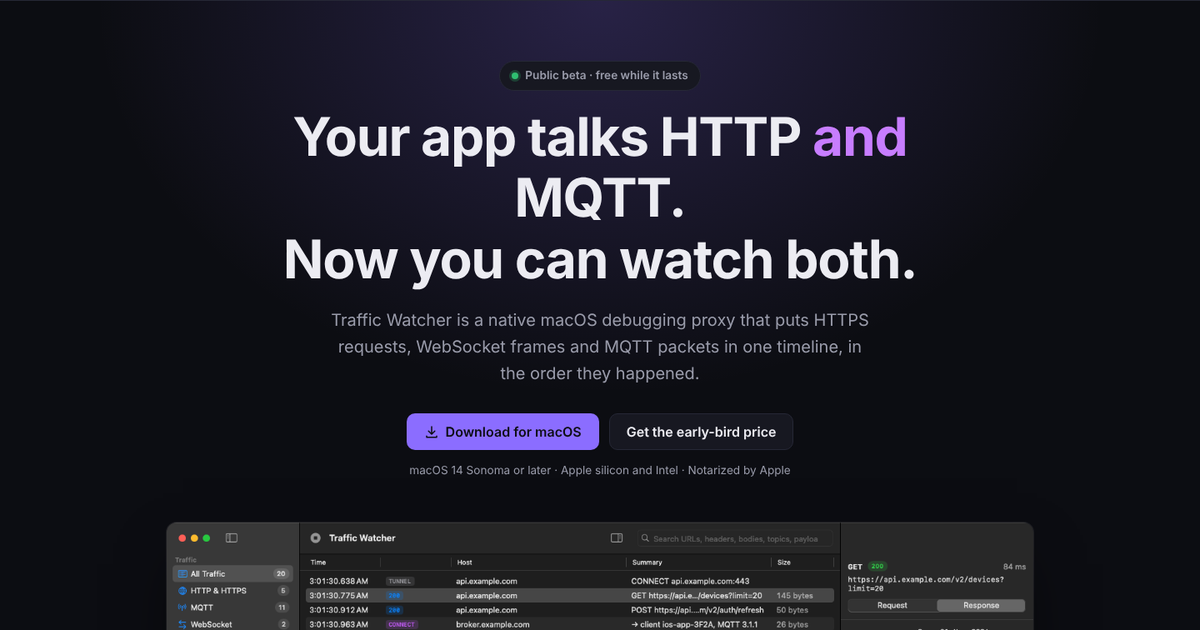
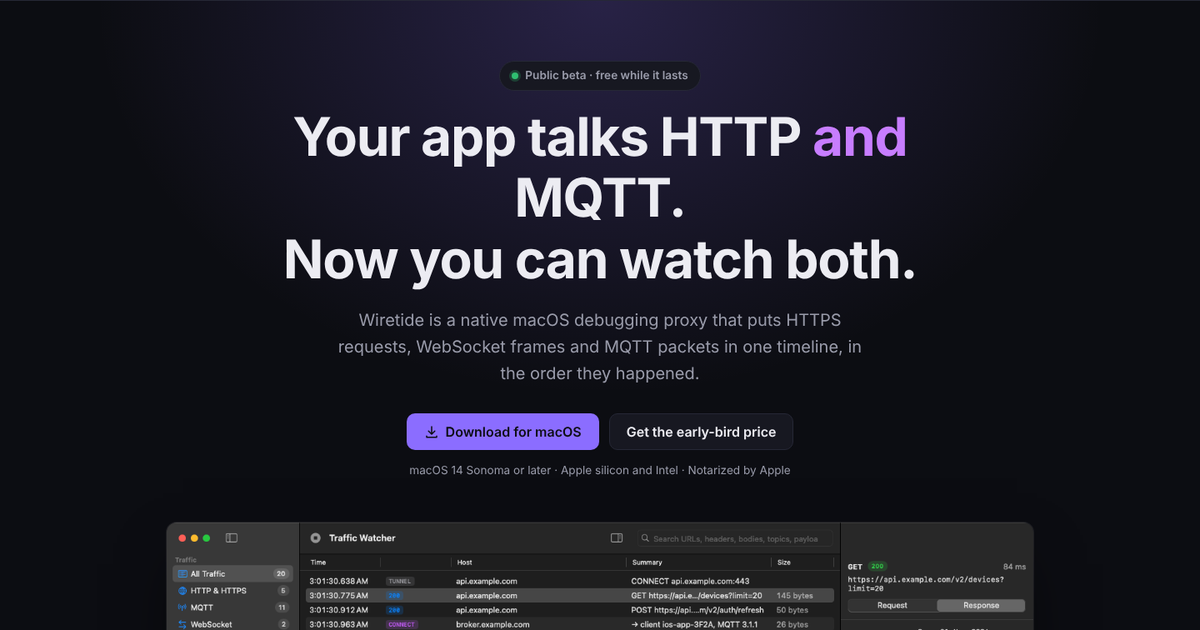
Use the public name Wiretide in the landing page copy
Claude-Session: https://claude.ai/code/session_01QrEV4TRZR3uc4sg86cQyEk

Changed region(s): [[0.2775, 0.4825, 0.74, 0.5429]]

diff --git a/site/index.html b/site/index.html
@@ -3,13 +3,13 @@
 <head>
   <meta charset="utf-8">
   <meta name="viewport" content="width=device-width, initial-scale=1">
-  <title>Traffic Watcher · HTTP, WebSocket and MQTT debugging for macOS</title>
+  <title>Wiretide · HTTP, WebSocket and MQTT debugging for macOS</title>
   <meta name="description" content="A native macOS debugging proxy that shows HTTP(S), WebSocket and MQTT traffic side by side in one timeline. Free during the beta.">
   <meta name="color-scheme" content="light dark">
   <meta name="theme-color" content="#0c0d12" media="(prefers-color-scheme: dark)">
   <meta name="theme-color" content="#f7f7fa" media="(prefers-color-scheme: light)">
   <meta property="og:type" content="website">
-  <meta property="og:title" content="Traffic Watcher">
+  <meta property="og:title" content="Wiretide">
   <meta property="og:description" content="HTTP, WebSocket and MQTT in one timeline. A native macOS debugging proxy for app developers.">
   <meta property="og:image" content="https://ryansalim-dev.github.io/traffic-watcher-with-mqtt/images/og.png">
   <meta name="twitter:card" content="summary_large_image">
@@ -21,9 +21,9 @@
 <body>
   <header class="nav">
     <div class="wrap nav-inner">
-      <a class="brand" href="#top" aria-label="Traffic Watcher home">
+      <a class="brand" href="#top" aria-label="Wiretide home">
         <img src="images/icon.svg" alt="" width="28" height="28">
-        <span>Traffic Watcher</span>
+        <span>Wiretide</span>
       </a>
       <nav class="nav-links" aria-label="Sections">
         <a href="#features">Features</a>
@@ -40,7 +40,7 @@
       <div class="wrap">
         <p class="pill"><span class="dot"></span>Public beta · free while it lasts</p>
         <h1>Your app talks HTTP <em>and</em> MQTT.<br>Now you can watch both.</h1>
-        <p class="lede">Traffic Watcher is a native macOS debugging proxy that puts HTTPS requests, WebSocket frames and MQTT packets in one timeline, in the order they happened.</p>
+        <p class="lede">Wiretide is a native macOS debugging proxy that puts HTTPS requests, WebSocket frames and MQTT packets in one timeline, in the order they happened.</p>
         <div class="cta-row">
           <a class="btn btn-primary" data-download href="#download">
             <svg aria-hidden="true" width="18" height="18" viewBox="0 0 24 24"><path fill="currentColor" d="M12 3a1 1 0 0 1 1 1v9.59l3.3-3.3a1 1 0 1 1 1.4 1.42l-5 5a1 1 0 0 1-1.4 0l-5-5a1 1 0 1 1 1.4-1.42l3.3 3.3V4a1 1 0 0 1 1-1Zm-8 15a1 1 0 0 1 1 1v1h14v-1a1 1 0 1 1 2 0v2a1 1 0 0 1-1 1H4a1 1 0 0 1-1-1v-2a1 1 0 0 1 1-1Z"/></svg>
@@ -54,7 +54,7 @@
           <picture>
             <source srcset="images/02-timeline-http-dark.webp" media="(prefers-color-scheme: dark)">
             <img src="images/01-timeline-http.webp" width="1440" height="860"
-                 alt="Traffic Watcher's timeline: HTTPS requests, MQTT CONNECT, SUBSCRIBE and PUBLISH packets and WebSocket text frames in one list, with a JSON response open in the inspector.">
+                 alt="Wiretide's timeline: HTTPS requests, MQTT CONNECT, SUBSCRIBE and PUBLISH packets and WebSocket text frames in one list, with a JSON response open in the inspector.">
           </picture>
         </figure>
 
@@ -95,7 +95,7 @@
           <article class="card">
             <div class="icon i-warn" aria-hidden="true"><svg viewBox="0 0 24 24"><path d="M12 2 3 6v6c0 5 3.8 9.3 9 10 5.2-.7 9-5 9-10V6l-9-4Zm0 2.18 7 3.11V12c0 3.9-2.9 7.3-7 8-4.1-.7-7-4.1-7-8V7.29l7-3.11ZM11 7h2v6h-2V7Zm0 8h2v2h-2v-2Z"/></svg></div>
             <h3>Spot pinned hosts</h3>
-            <p>When a client rejects the certificate, Traffic Watcher says so instead of failing silently. Bypass the host with one click.</p>
+            <p>When a client rejects the certificate, Wiretide says so instead of failing silently. Bypass the host with one click.</p>
           </article>
           <article class="card">
             <div class="icon i-export" aria-hidden="true"><svg viewBox="0 0 24 24"><path d="M12 3a1 1 0 0 1 .7.3l4 4a1 1 0 1 1-1.4 1.4L13 6.42V15a1 1 0 1 1-2 0V6.41L8.7 8.7a1 1 0 1 1-1.4-1.4l4-4A1 1 0 0 1 12 3ZM5 14a1 1 0 0 1 1 1v3h12v-3a1 1 0 1 1 2 0v4a1 1 0 0 1-1 1H5a1 1 0 0 1-1-1v-4a1 1 0 0 1 1-1Z"/></svg></div>
@@ -111,7 +111,7 @@
         <div class="split-copy">
           <p class="eyebrow eyebrow-mqtt">Built for MQTT</p>
           <h2>See your broker conversation, not a wall of bytes.</h2>
-          <p>Most proxies stop at HTTP. IoT and real-time apps don't. Point your app at a local port and Traffic Watcher relays it to your broker, decoding every packet on the way through.</p>
+          <p>Most proxies stop at HTTP. IoT and real-time apps don't. Point your app at a local port and Wiretide relays it to your broker, decoding every packet on the way through.</p>
           <ul class="checks">
             <li><strong>Plain TCP, TLS or WebSocket.</strong> For MQTT over TLS it terminates and re-encrypts, so you see the packets without changing the broker.</li>
             <li><strong>A live topic tree.</strong> Browse <code>home/kitchen/temperature</code> the way you think about it, with the last payload and message counts per topic.</li>
@@ -203,11 +203,11 @@
         </details>
         <details>
           <summary>Why isn't it on the Mac App Store?</summary>
-          <p>A debugging proxy needs to run a local proxy, install a root certificate and talk to the iOS Simulator, which the App Store sandbox doesn't allow. Traffic Watcher is signed with a Developer ID and notarized by Apple, and it updates itself.</p>
+          <p>A debugging proxy needs to run a local proxy, install a root certificate and talk to the iOS Simulator, which the App Store sandbox doesn't allow. Wiretide is signed with a Developer ID and notarized by Apple, and it updates itself.</p>
         </details>
         <details>
           <summary>How do I capture MQTT?</summary>
-          <p>Add your broker in Settings. Traffic Watcher listens on a local port, for example <code>localhost:18830</code>, and forwards to the broker. Point your app at that port. MQTT over WebSocket is picked up automatically through the HTTP proxy.</p>
+          <p>Add your broker in Settings. Wiretide listens on a local port, for example <code>localhost:18830</code>, and forwards to the broker. Point your app at that port. MQTT over WebSocket is picked up automatically through the HTTP proxy.</p>
         </details>
         <details>
           <summary>Does it work with the iOS Simulator and real devices?</summary>
@@ -243,7 +243,7 @@
 
   <footer class="footer">
     <div class="wrap footer-inner">
-      <p>© 2026 Traffic Watcher</p>
+      <p>© 2026 Wiretide</p>
       <nav aria-label="Footer">
         <a href="https://github.com/ryansalim-dev/traffic-watcher-with-mqtt">GitHub</a>
         <a href="https://github.com/ryansalim-dev/traffic-watcher-with-mqtt/releases">Release notes</a>

diff --git a/README.md b/README.md
@@ -69,4 +69,4 @@ Release builds read `TWLemonSqueezyStoreID`, `TWLemonSqueezyProductIDs`, `TWPurc
 
 ## Landing page
 
-`site/` is the static landing page, published to GitHub Pages (the `gh-pages` branch, next to the Sparkle appcast) by `.github/workflows/site.yml` on every push to `main` that touches it. Download, checkout and waitlist links are set in `site/config.js`. Preview locally with `python3 -m http.server -d site`.
+`site/` is the static landing page for the public name, Wiretide, published to GitHub Pages (the `gh-pages` branch, next to the Sparkle appcast) by `.github/workflows/site.yml` on every push to `main` that touches it. Download, checkout and waitlist links are set in `site/config.js`. Preview locally with `python3 -m http.server -d site`.
